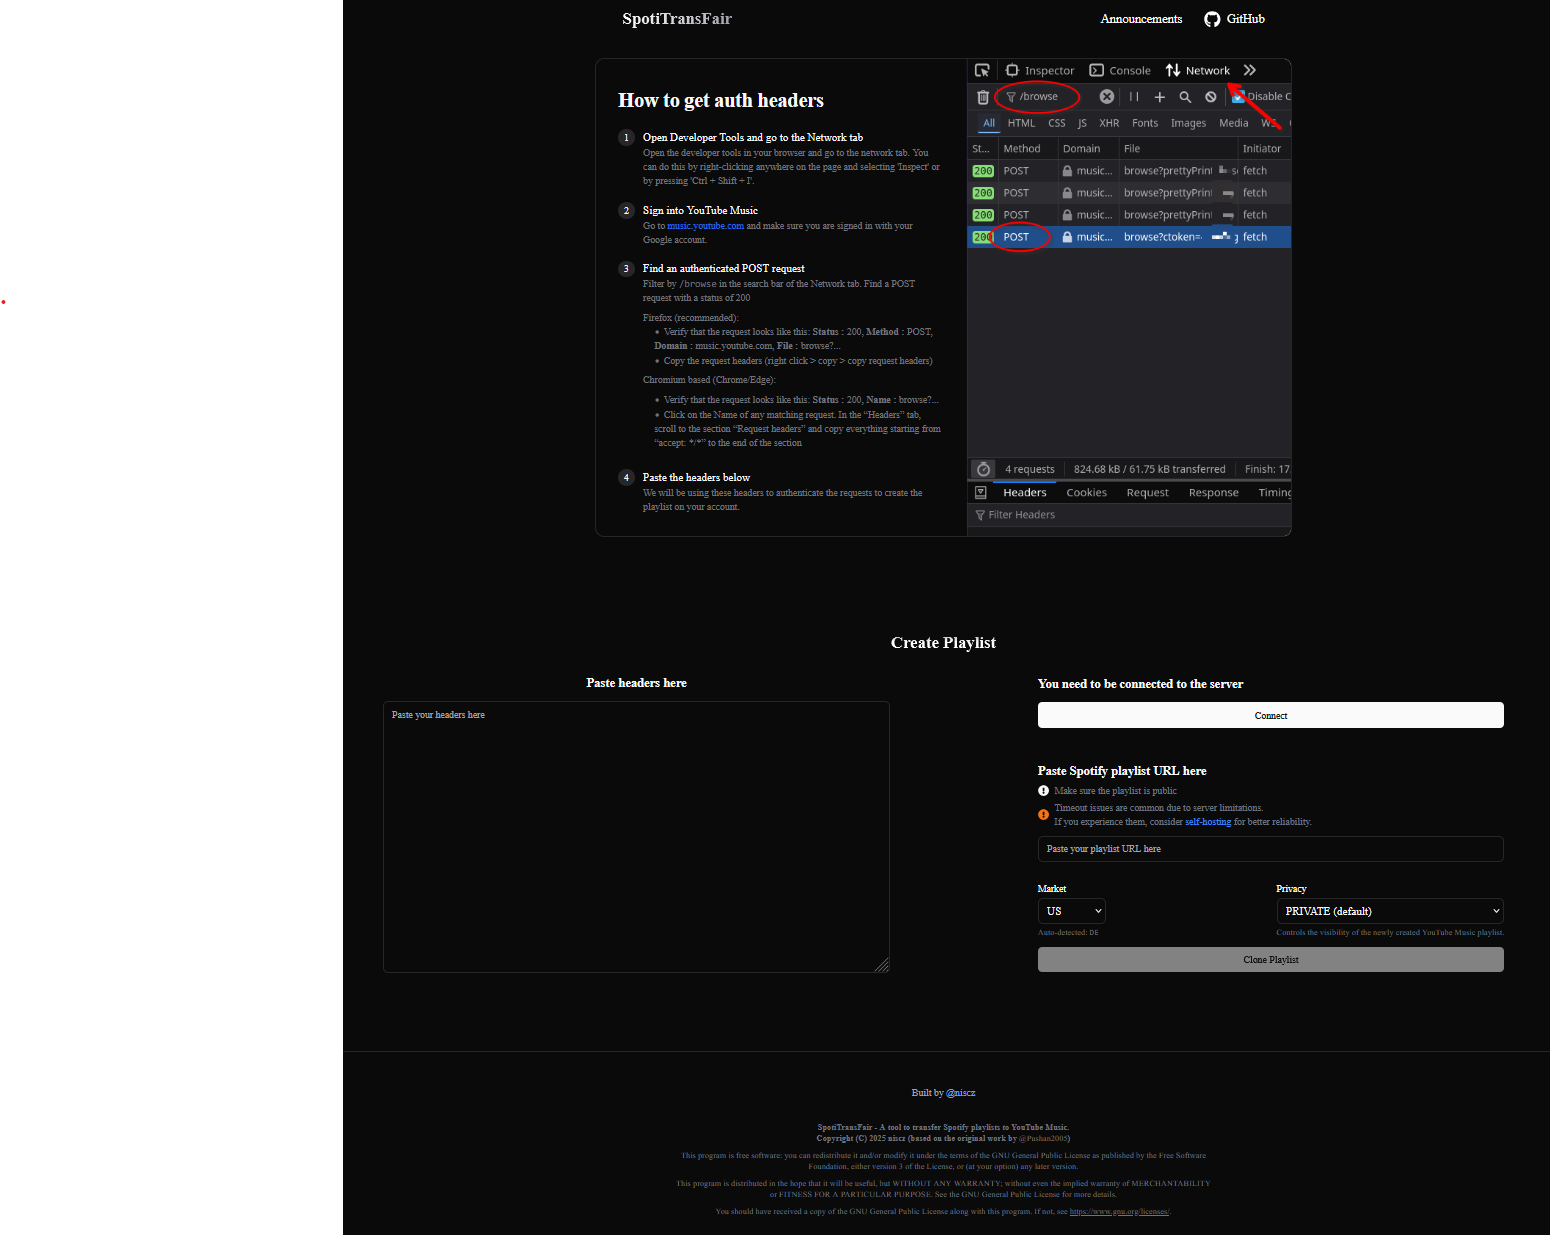
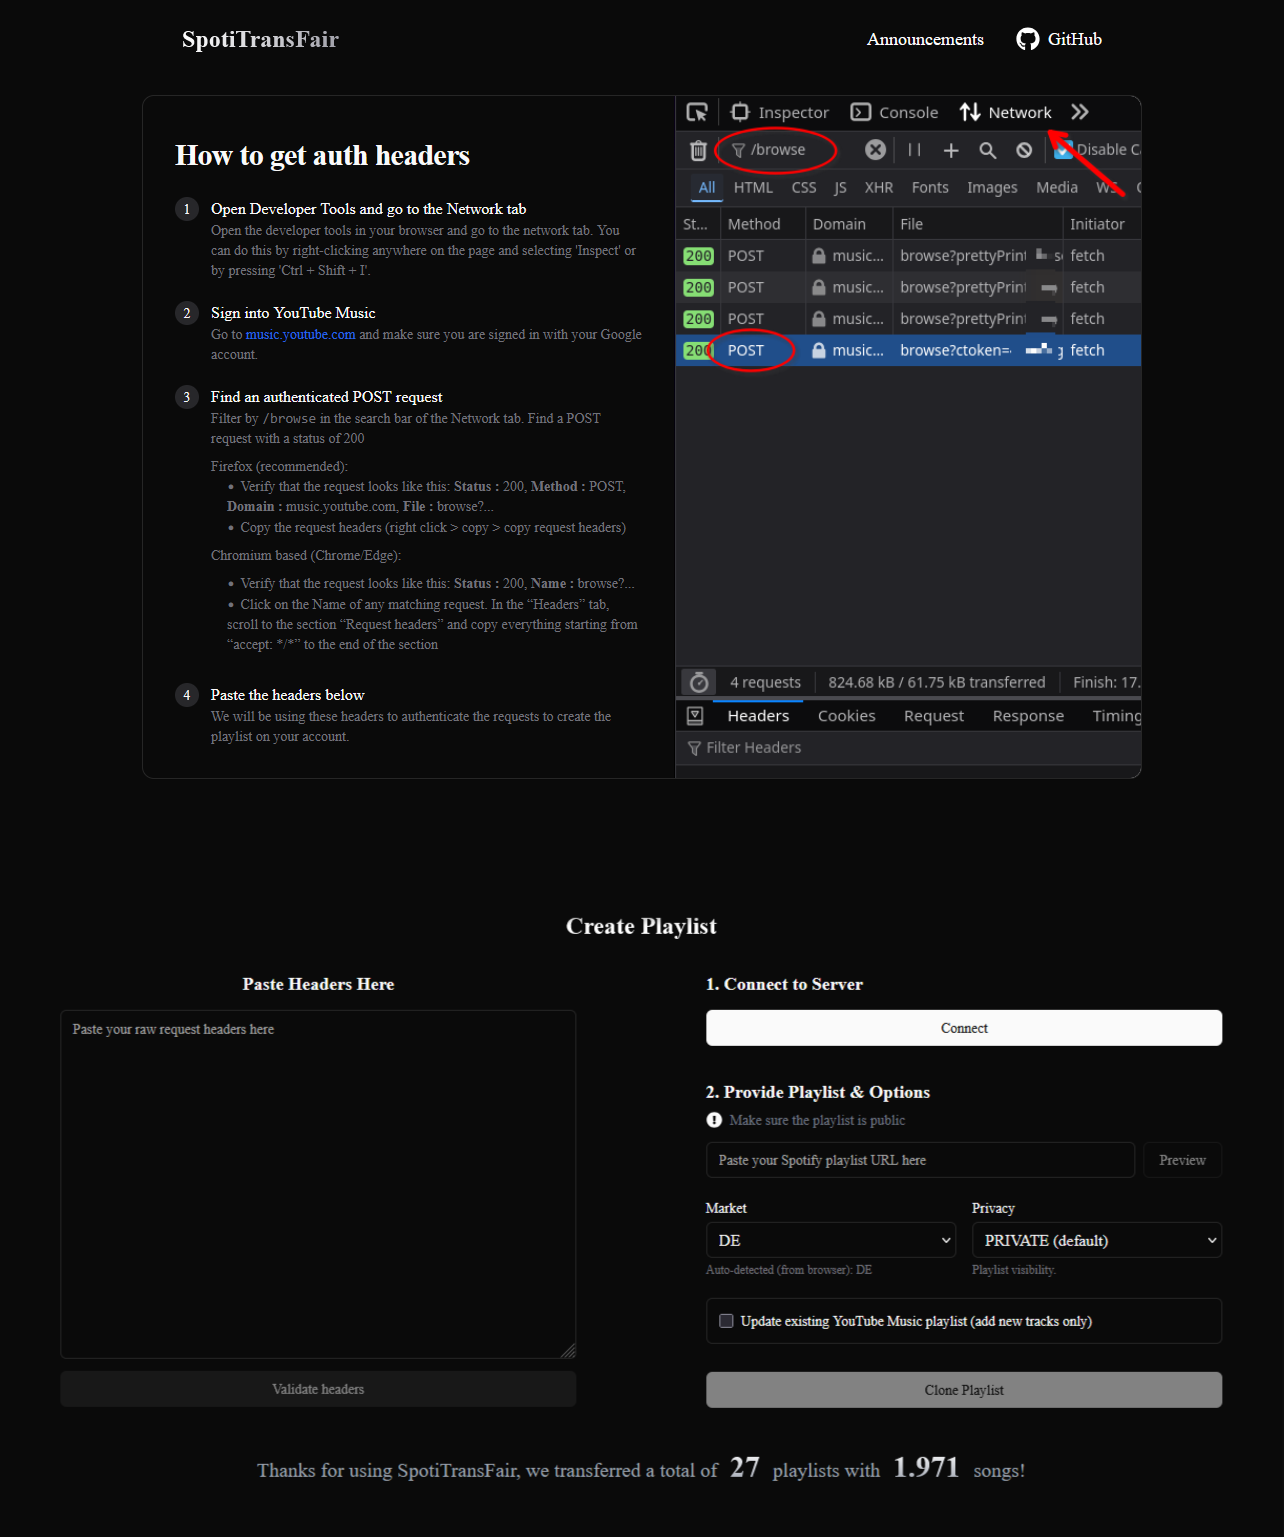
some adjustments to the counters

diff --git a/frontend/src/components/landing/live-stats.tsx b/frontend/src/components/landing/live-stats.tsx
@@ -1,0 +1,128 @@
+// frontend/src/components/landing/live-stats.tsx
+import { useEffect, useRef } from "react";
+import { animate } from "motion";
+
+type Stats = { playlists: number; songs: number };
+
+type Props = {
+    variant?: "home" | "create"; // home: "Join the community..." | create: "Thanks for using..."
+    pollMs?: number; // default 10s
+};
+
+const fmt = (n: number) => Math.round(n).toLocaleString();
+
+export default function LiveStats({ variant = "home", pollMs = 10_000 }: Props) {
+    // Spans für Zahlen
+    const playlistsEl = useRef<HTMLSpanElement | null>(null);
+    const songsEl = useRef<HTMLSpanElement | null>(null);
+
+    // Letzter bekannter Zahlenstand (Start: 0, 0 nur beim Initial-Load!)
+    const lastPlaylists = useRef<number>(0);
+    const lastSongs = useRef<number>(0);
+
+    // Läuft gerade eine Animation? (je Zahl separat)
+    const playlistsAnim = useRef<ReturnType<typeof animate> | null>(null);
+    const songsAnim = useRef<ReturnType<typeof animate> | null>(null);
+
+    // Hilfsfunktion zum Animieren von A -> B; wenn gleich, keine Animation
+    function animateNumber(
+        el: HTMLSpanElement | null,
+        last: { current: number },
+        next: number,
+        animRef: { current: ReturnType<typeof animate> | null },
+        duration = 1.0
+    ) {
+        if (!el) return;
+
+        if (next === last.current) {
+            // nichts zu tun
+            return;
+        }
+
+        // laufende Animation abbrechen
+        animRef.current?.stop();
+
+        // Von letztem Stand zu neuem Stand animieren
+        animRef.current = animate(last.current, next, {
+            duration,
+            // (ohne .finished / ohne easing-Typen-Stress)
+            onUpdate: (v: number) => {
+                el.textContent = fmt(v);
+            },
+            onComplete: () => {
+                last.current = next;
+                el.textContent = fmt(next);
+            },
+        });
+    }
+
+    // Initial fetch + Intervall
+    useEffect(() => {
+        let mounted = true;
+        // Beim ersten Render zählt er von 0 -> erster Wert
+        const initialLoad = async () => {
+            try {
+                const res = await fetch("/api/stats");
+                if (!res.ok) return;
+                const data = (await res.json()) as Stats;
+                if (!mounted) return;
+
+                // Initial: von 0 -> data.*
+                animateNumber(playlistsEl.current, lastPlaylists, data.playlists, playlistsAnim, 1.0);
+                animateNumber(songsEl.current, lastSongs, data.songs, songsAnim, 1.0);
+            } catch {
+                // silently ignore
+            }
+        };
+
+        const tick = async () => {
+            try {
+                const res = await fetch("/api/stats");
+                if (!res.ok) return;
+                const data = (await res.json()) as Stats;
+                if (!mounted) return;
+
+                // Nur zählen, wenn sich Werte geändert haben — und dann vom letzten Stand nach oben
+                animateNumber(playlistsEl.current, lastPlaylists, data.playlists, playlistsAnim, 0.8);
+                animateNumber(songsEl.current, lastSongs, data.songs, songsAnim, 0.8);
+            } catch {
+                // silently ignore
+            }
+        };
+
+        initialLoad();
+        const id = window.setInterval(tick, pollMs);
+
+        return () => {
+            mounted = false;
+            window.clearInterval(id);
+            playlistsAnim.current?.stop();
+            songsAnim.current?.stop();
+        };
+    }, [pollMs]);
+
+    // Text je nach Variante
+    const prefix =
+        variant === "home"
+            ? "Join the community that has transferred over"
+            : "Thanks for using SpotiTransFair, we transferred a total of";
+
+    const middle = variant === "home" ? "playlists and" : "playlists with";
+    const suffix = "songs!";
+
+    return (
+        <div className="w-full max-w-[1000px] px-4 text-center">
+            <p className="text-lg md:text-xl text-gray-600 dark:text-gray-400">
+                {prefix}{" "}
+                <span className="mx-2 text-2xl md:text-3xl font-bold text-transparent bg-clip-text bg-gradient-to-b from-neutral-800 dark:from-white to-neutral-700 dark:to-gray-400">
+                    <span ref={playlistsEl}>0</span>
+                </span>{" "}
+                {middle}{" "}
+                <span className="mx-2 text-2xl md:text-3xl font-bold text-transparent bg-clip-text bg-gradient-to-b from-neutral-800 dark:from-white to-neutral-700 dark:to-gray-400">
+                    <span ref={songsEl}>0</span>
+                </span>{" "}
+                {suffix}
+            </p>
+        </div>
+    );
+}

diff --git a/frontend/src/pages/App.tsx b/frontend/src/pages/App.tsx
@@ -1,6 +1,6 @@
 // frontend/src/pages/App.tsx
 import Hero from "@/components/landing/hero.tsx";
-import Counters from "@/components/landing/counters";
+import LiveStats from "@/components/landing/live-stats";
 import HowToUse from "@/components/landing/how-to-use.tsx";
 import { Footer } from "@/components/landing/footer.tsx";
 
@@ -10,7 +10,7 @@ export default function App() {
             <div className="mb-10">
                 <Hero />
             </div>
-            <Counters />
+            <LiveStats variant="home" />
             <h2 className="mt-20 text-center mb-3 text-2xl font-bold mx-auto relative z-20 py-4 bg-clip-text text-transparent bg-gradient-to-b from-neutral-800 via-neutral-700 to-neutral-700 dark:from-neutral-800 dark:via-white dark:to-white w-full">
                 How to use
             </h2>

diff --git a/frontend/src/pages/create-playlist.tsx b/frontend/src/pages/create-playlist.tsx
@@ -2,7 +2,7 @@
 import { Footer } from "@/components/landing/footer";
 import GetHeaders from "@/components/create-playlist/get-headers";
 import InputFields from "@/components/create-playlist/input-fields";
-import InlineLiveStats from "@/components/landing/inline-live-stats";
+import LiveStats from "@/components/landing/live-stats";
 
 export default function CreatePlaylist() {
     return (
@@ -27,7 +27,7 @@ export default function CreatePlaylist() {
                 </h2>
                 <InputFields />
                 <div className="my-10">
-                    <InlineLiveStats />
+                    <LiveStats variant="create" />
                 </div>
                 <Footer />
             </main>
